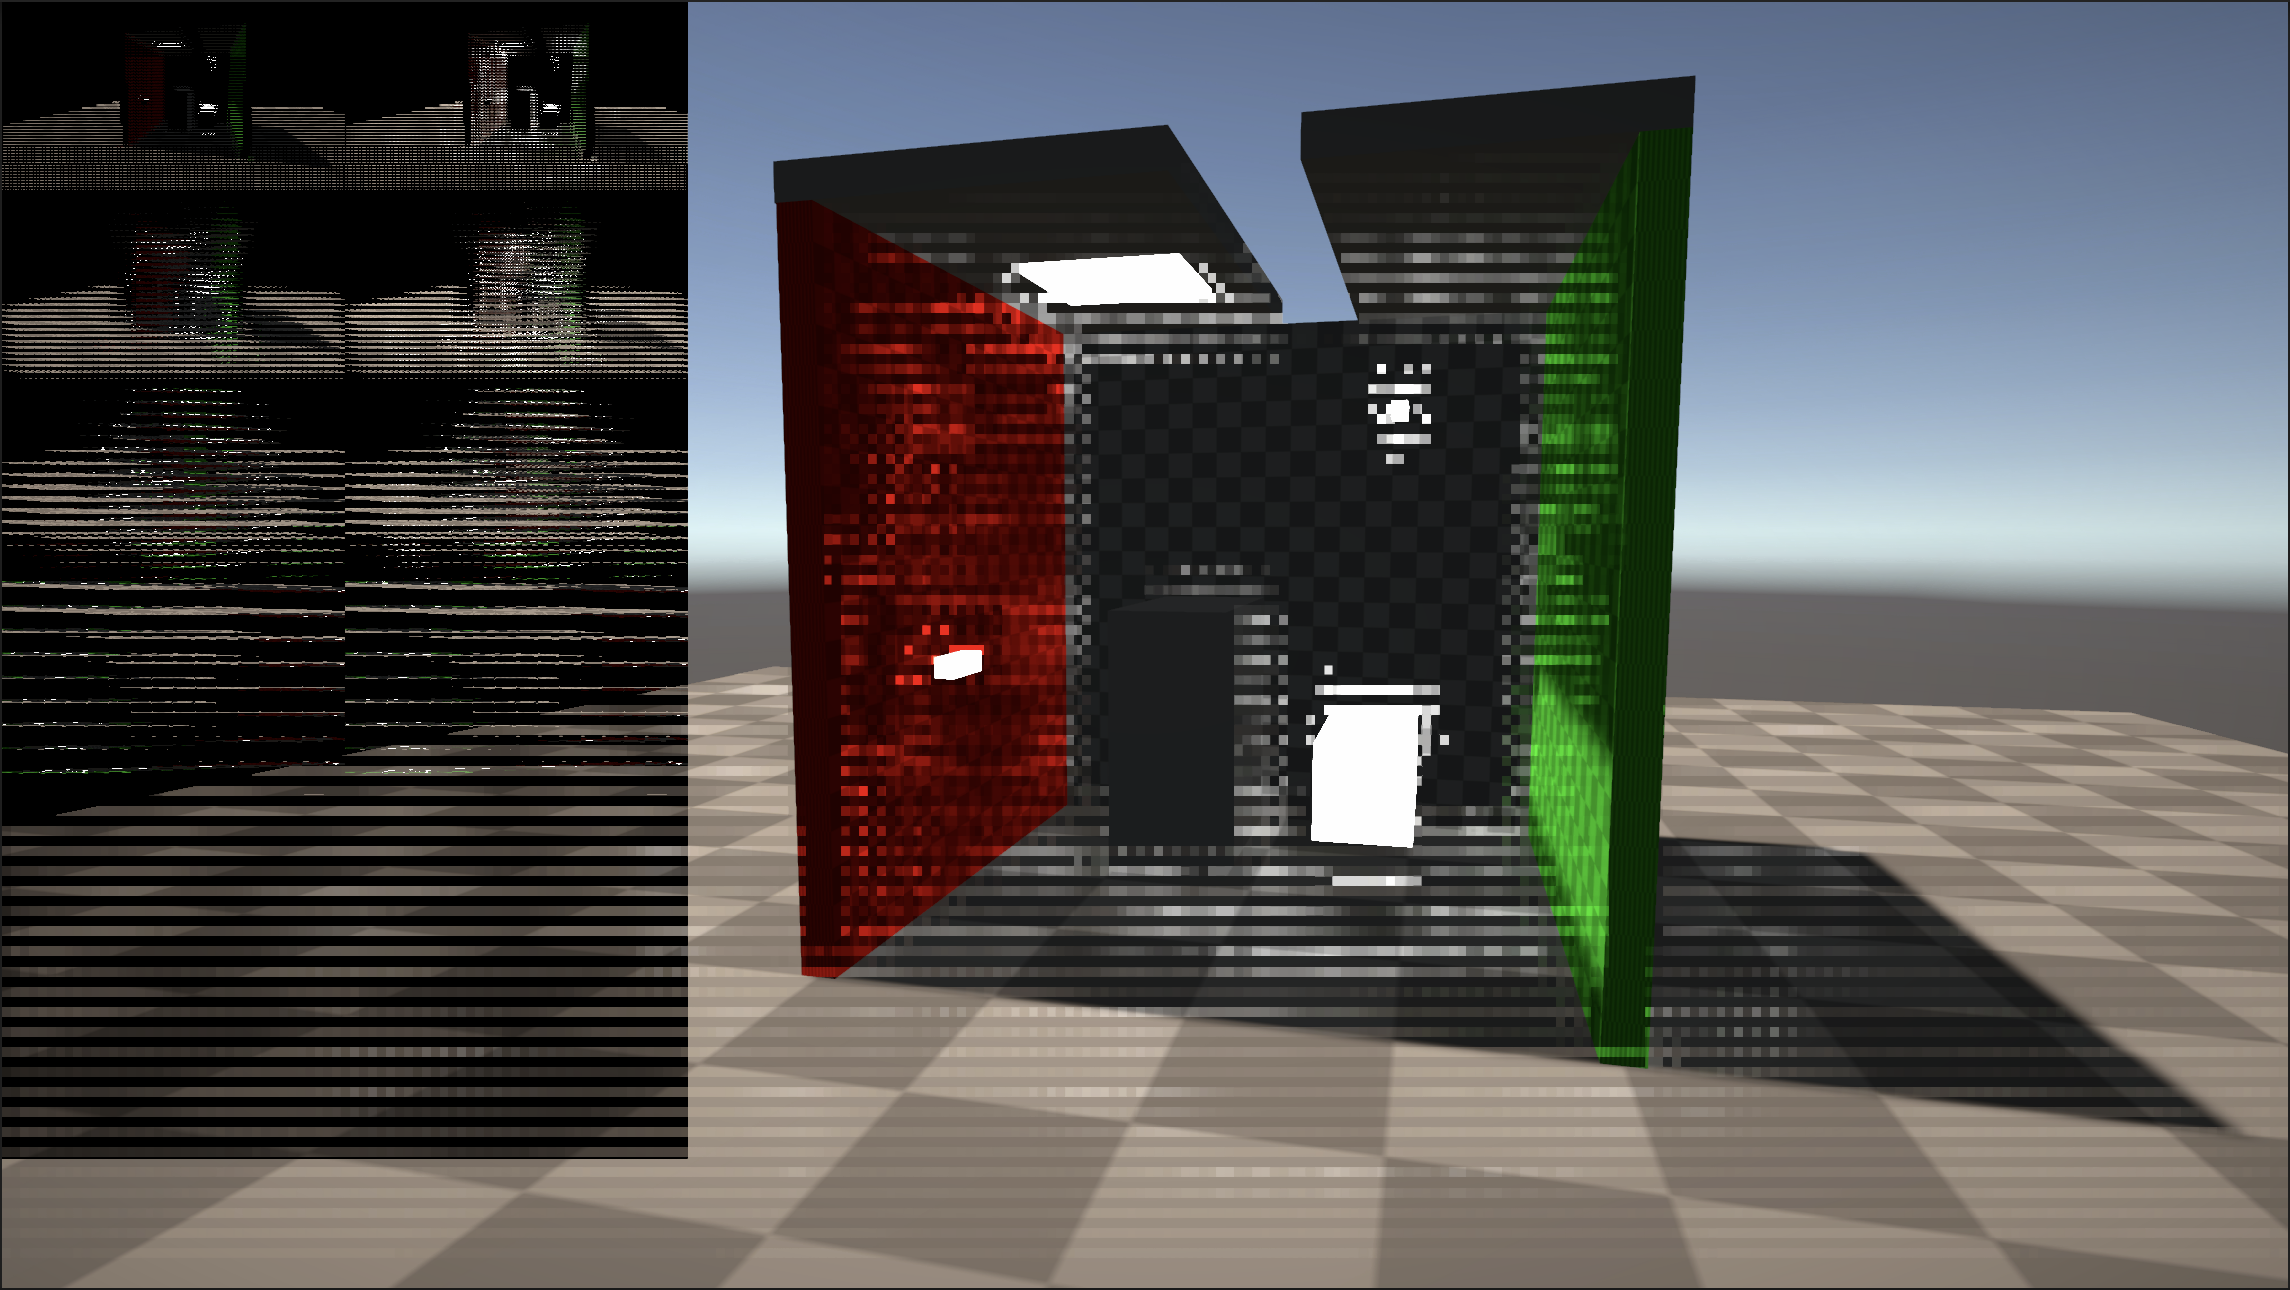
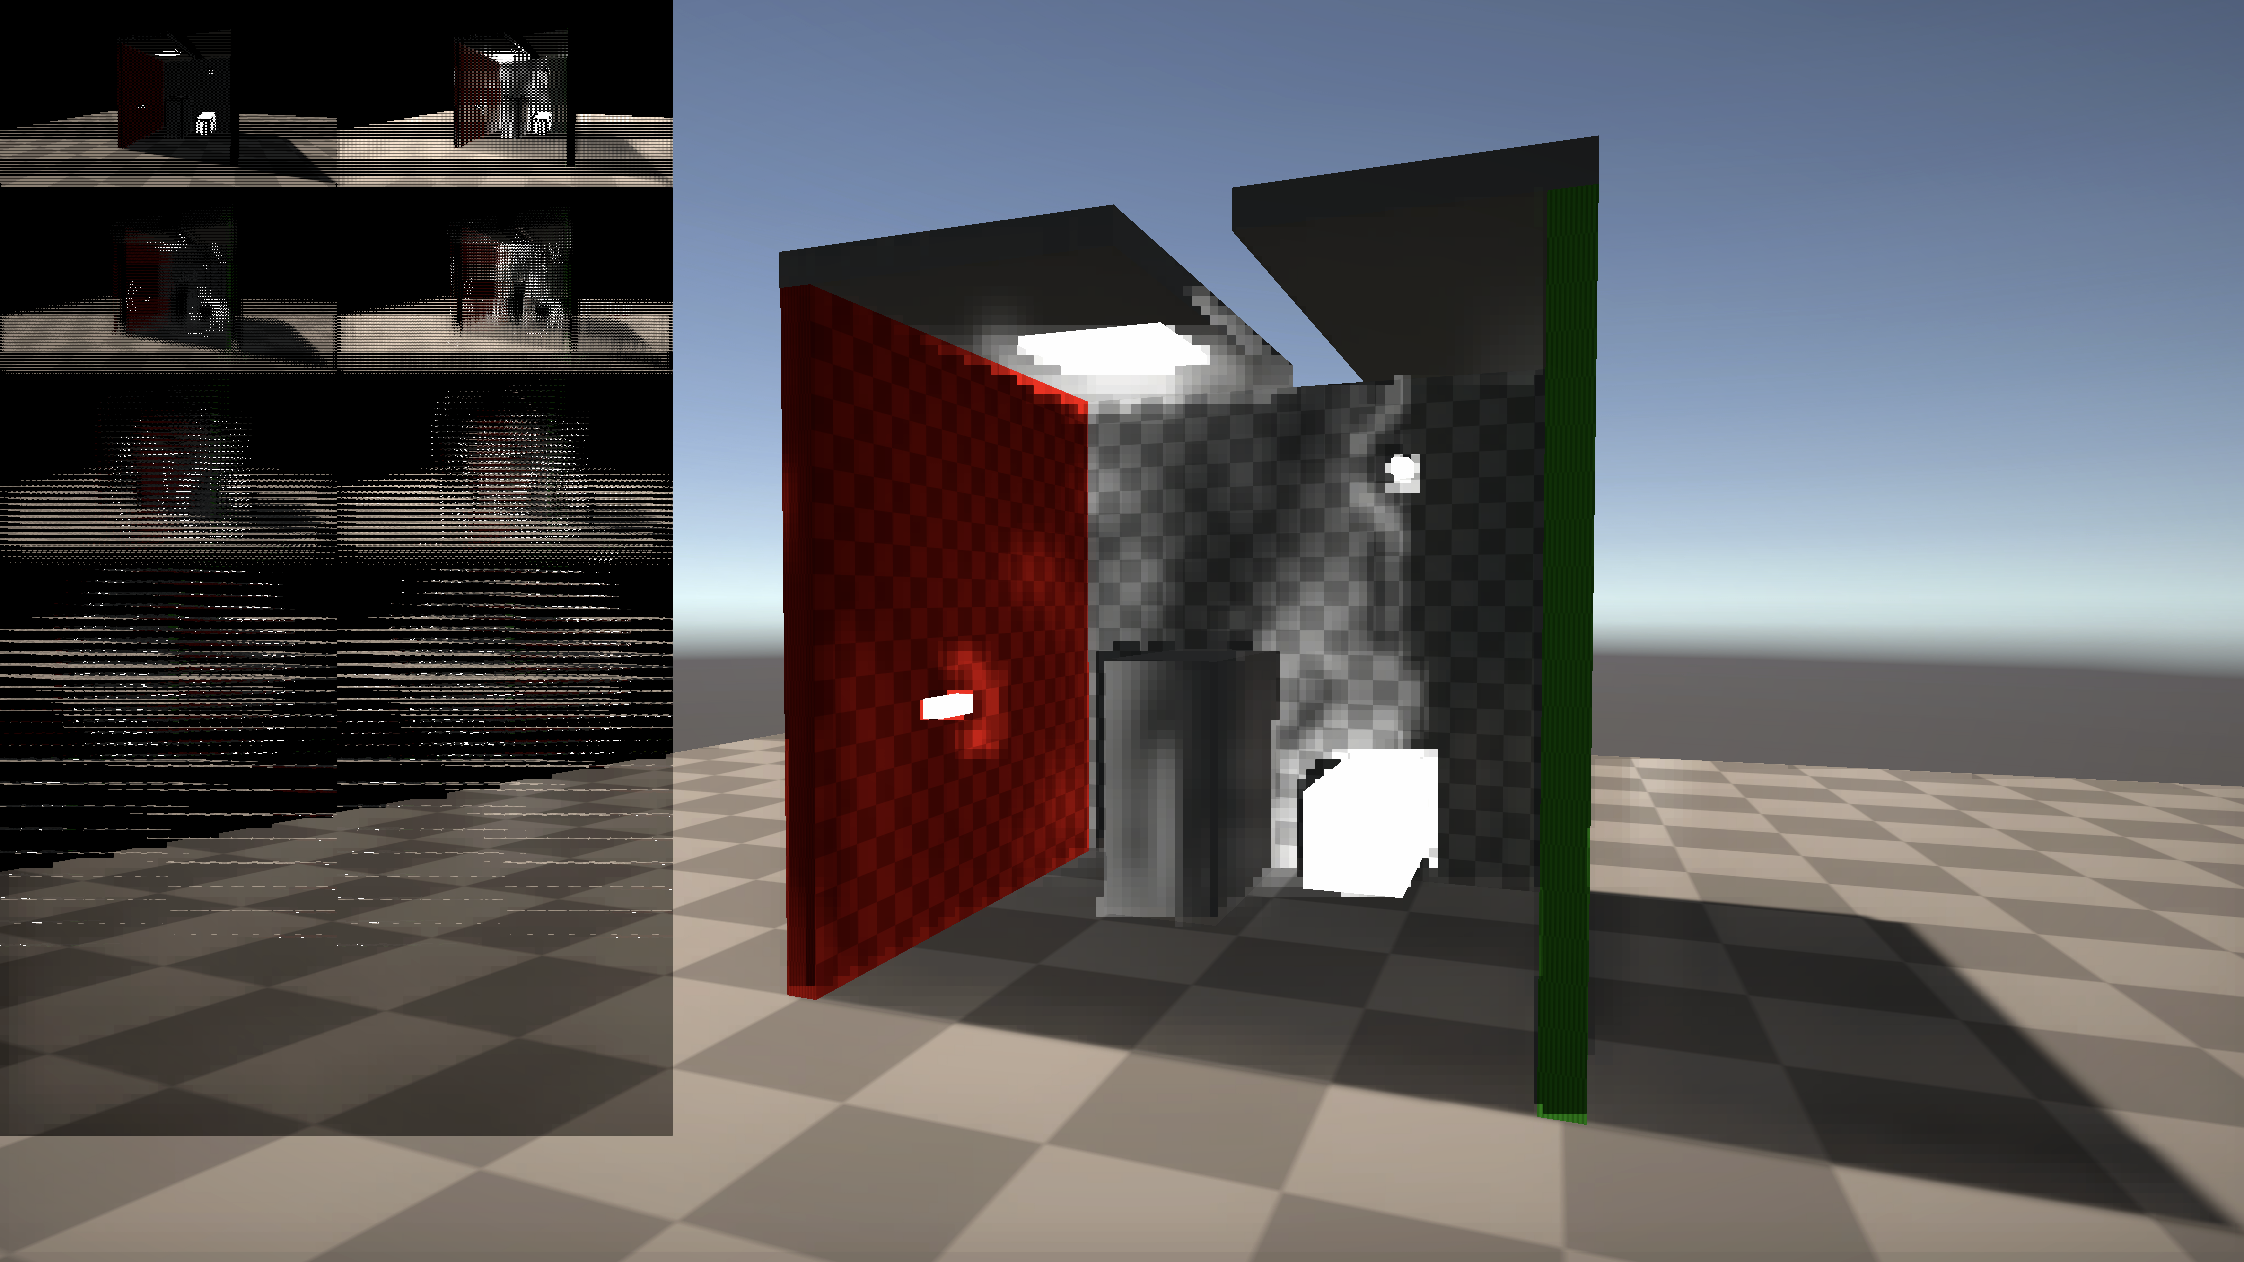
Fix cascade rendering.

diff --git a/Assets/com.alexmalyutindev.radiance-cascades-urp/RadianceCascadesPass.cs b/Assets/com.alexmalyutindev.radiance-cascades-urp/RadianceCascadesPass.cs
@@ -95,13 +95,6 @@ public class RadianceCascadesPass : ScriptableRenderPass
             return;
         }
 
-        var colorTextureTexelSize = new Vector4(
-            colorTextureRT.width,
-            colorTextureRT.height,
-            1.0f / colorTextureRT.width,
-            1.0f / colorTextureRT.height
-        );
-
         using (new ProfilingScope(cmd, _profilingSampler))
         {
             context.ExecuteCommandBuffer(cmd);
@@ -138,7 +131,7 @@ public class RadianceCascadesPass : ScriptableRenderPass
                         cmd,
                         colorTexture,
                         renderingData.cameraData.renderer.cameraDepthTargetHandle,
-                        2 << (level + 1),
+                        2 << level,
                         level,
                         _Cascades[level]
                     );
